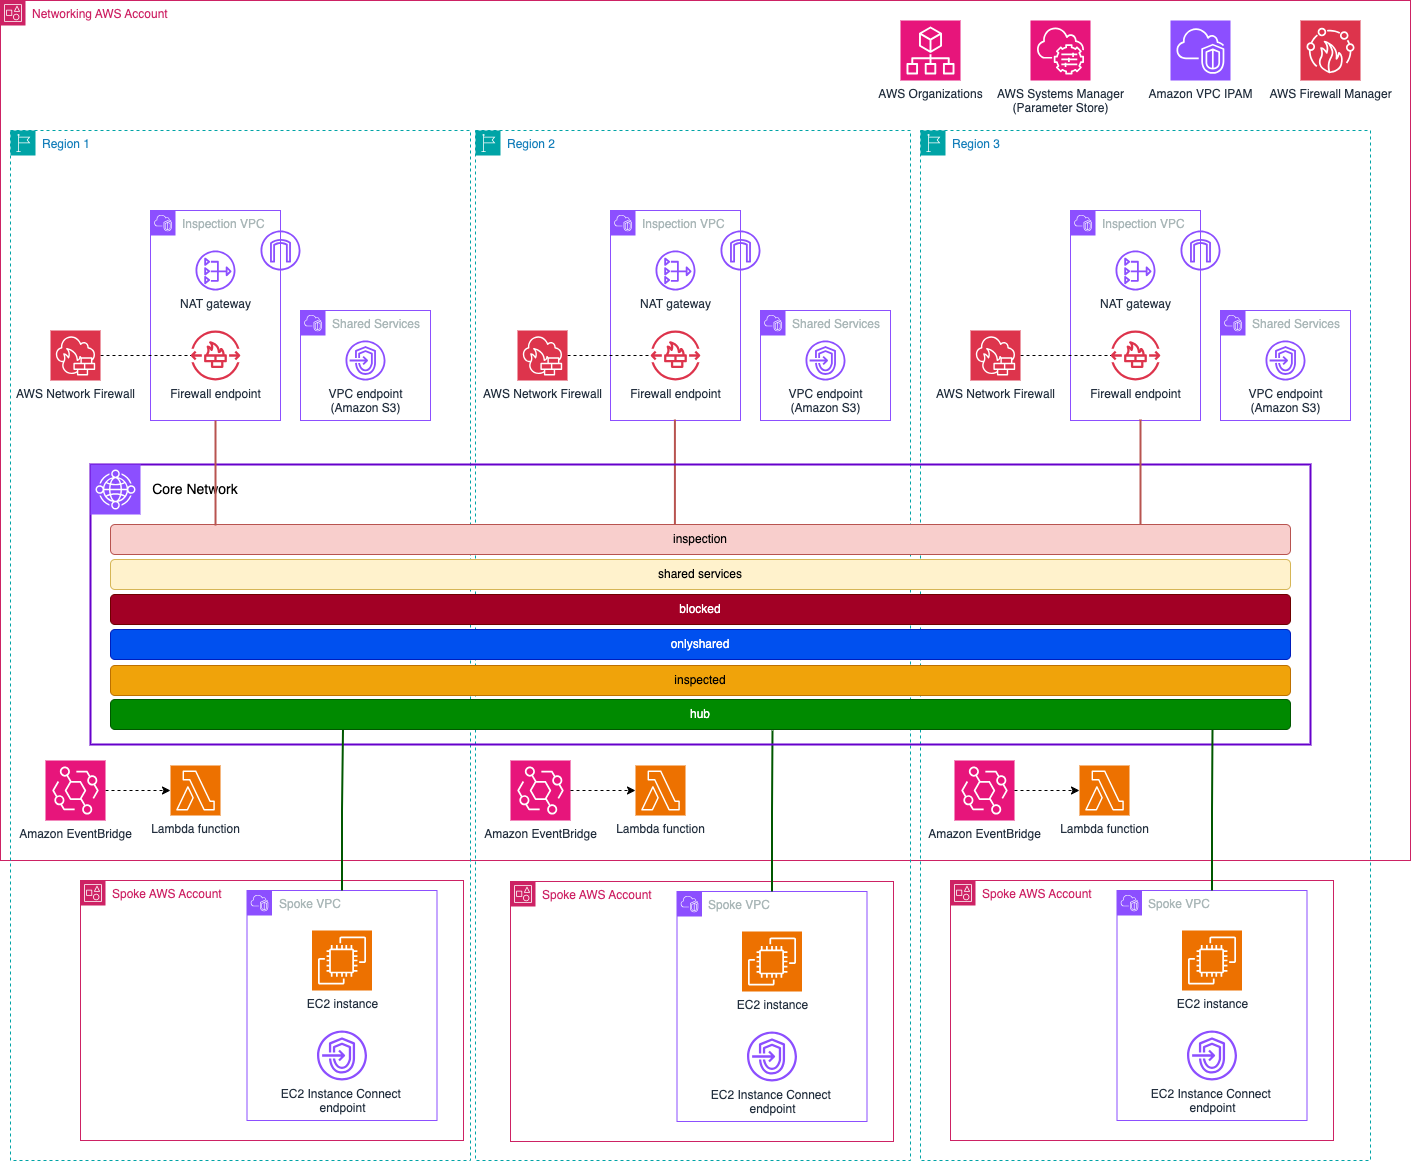
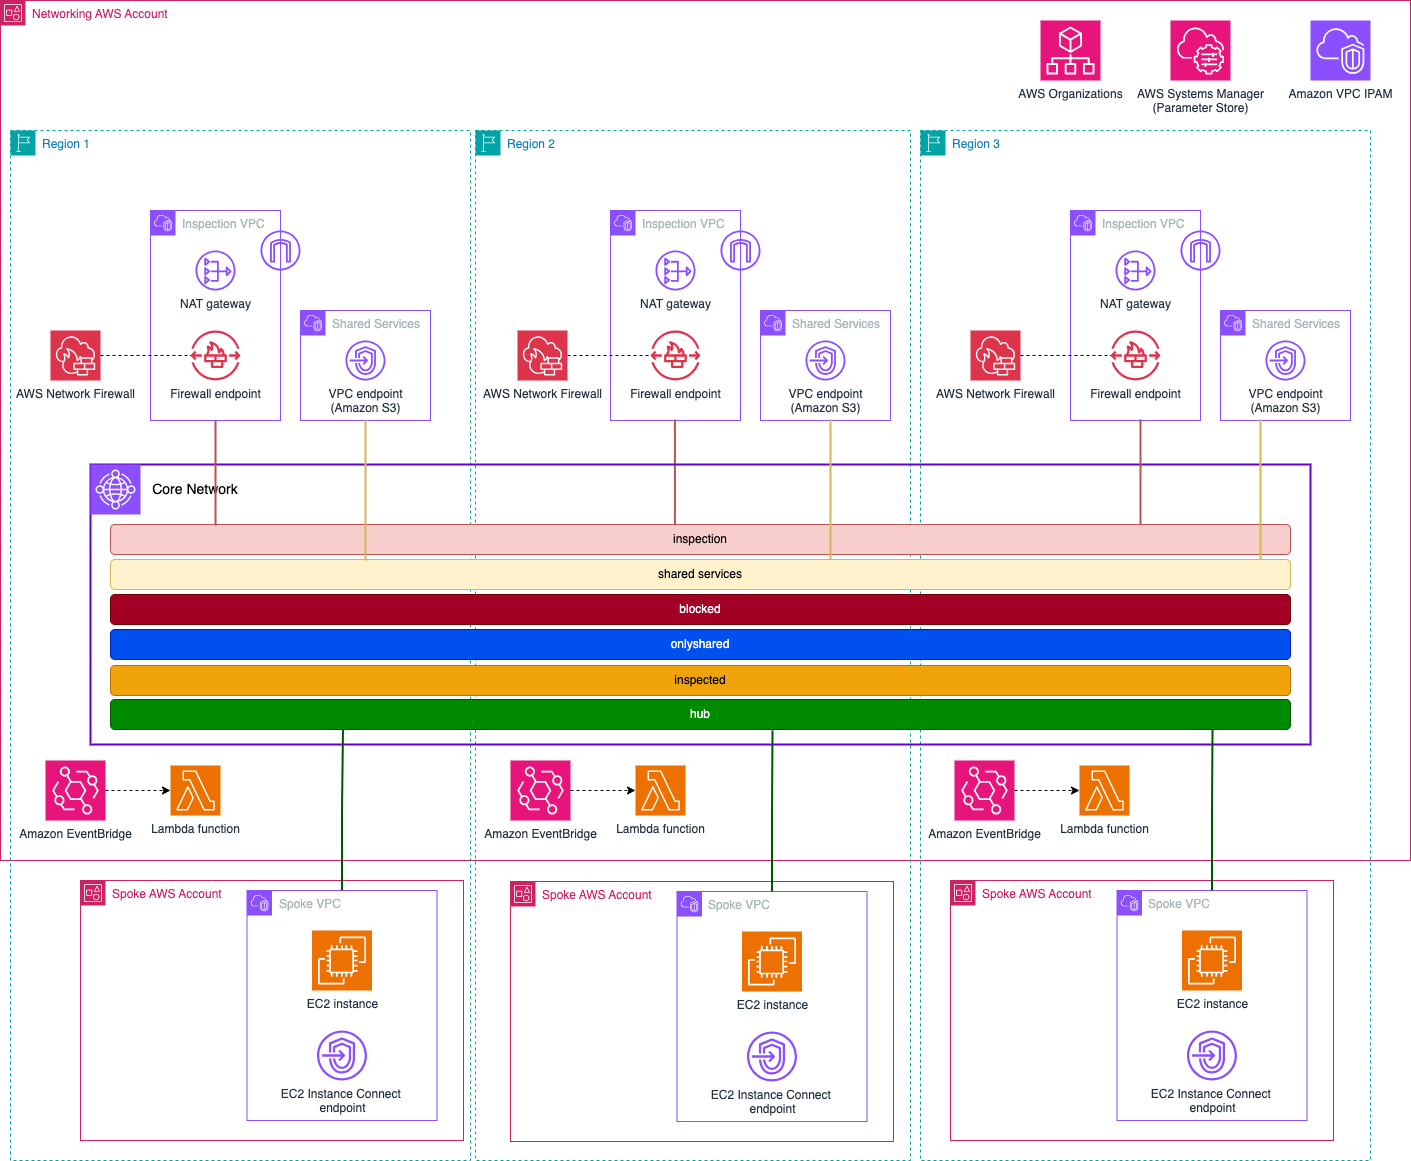
README update

Changed region(s): [[0.7172, 0.0, 0.9979, 0.093], [0.6237, 0.0, 0.686, 0.093]]

diff --git a/README.md b/README.md
@@ -1,11 +1,6 @@
 ## Build and enforce network security in multi-Account environments
 
-In this repository, you will leverage [Amazon GuardDuty](https://aws.amazon.com/guardduty/) and [AWS Firewall Manager](https://aws.amazon.com/es/firewall-manager/) to control the security posture of the AWS environment. In addition, from GuardDuty findings, you will automate actions in the global network built by [AWS Cloud WAN](https://aws.amazon.com/cloud-wan/). The Infrastructure-as-Code framework used is **Terraform**.
-
-The main idea is to build two different security controls:
-
-* *Reactive*: From GuardDuty findings, an automation will update Cloud WAN VPC attachment tags to move the VPC to a different security level (depending the finding severity).
-* *Proactive*: Firewall Manager will monitor the Security Groups in the multi-Account environment to determine which ones are not compliant.
+In this repository, you will leverage [Amazon GuardDuty](https://aws.amazon.com/guardduty/) findings to automate actions in global networks leveraging [AWS Cloud WAN](https://aws.amazon.com/cloud-wan/). The Infrastructure-as-Code framework used is **Terraform**. The main idea is to build an automation that updates Cloud WAN VPC attachment tags to move the VPC to a different security level depending the GuardDuty finding severity.
 
 ![Architecture diagram](./images/full-architecture.png)
 
@@ -21,7 +16,6 @@ This example requires the use of 2 AWS Accounts: one for the central Networking,
 * Automation:
     * [Amazon EventBridge](https://aws.amazon.com/eventbridge/) rule invoking a Lambda function from GuardDuty findings.
     * [AWS Lambda](https://aws.amazon.com/pm/lambda/) function changing VPC Cloud WAN attachment tags depending the GuardDuty finding obtained.
-* In each AWS Region, a Firewall Manager policy checks the Security Groups of the spoke VPCs to make sure they are compliant.
 * [Amazon VPC IPAM](https://docs.aws.amazon.com/vpc/latest/ipam/what-it-is-ipam.html) to provide CIDR blocks to the VPCs created in the spoke AWS Account.
 * In each AWS Region, two central VPCs are created:
     * Inspection & Egress VPC, with [AWS Network Firewall](https://aws.amazon.com/network-firewall/) as inspection layer.
@@ -39,7 +33,6 @@ This example requires the use of 2 AWS Accounts: one for the central Networking,
 ## Pre-requisites
 
 * When using several AWS Accounts, make sure you use different AWS credentials when initializing the provider in each folder.
-* [AWS Organizations](https://docs.aws.amazon.com/organizations/latest/userguide/orgs_introduction.html) and [AWS Config](https://docs.aws.amazon.com/config/latest/developerguide/WhatIsConfig.html) should be enabled in your AWS Account(s) to use Firewall Manager. Check the [documentation](https://docs.aws.amazon.com/waf/latest/developerguide/fms-prereq.html) to understand the prerequisites needed to enable Firewall Manager.
 * This repository does not configure Amazon GuardDuty. Check the [documentation](https://docs.aws.amazon.com/guardduty/latest/ug/guardduty_settingup.html) to understand how to enable it in your AWS Accounts (if not done already).
 * Terraform installed.
 

diff --git a/network/README.md b/network/README.md
@@ -43,7 +43,6 @@
 
 | Name | Type |
 |------|------|
-| [aws_fms_policy.nvirginia_policy](https://registry.terraform.io/providers/hashicorp/aws/latest/docs/resources/fms_policy) | resource |
 | [aws_iam_policy.automation_lambda_policy](https://registry.terraform.io/providers/hashicorp/aws/latest/docs/resources/iam_policy) | resource |
 | [aws_iam_role.automation_lambda_role](https://registry.terraform.io/providers/hashicorp/aws/latest/docs/resources/iam_role) | resource |
 | [aws_iam_role_policy_attachment.automation_lambda_policy_attachment](https://registry.terraform.io/providers/hashicorp/aws/latest/docs/resources/iam_role_policy_attachment) | resource |
@@ -69,7 +68,7 @@
 |------|-------------|------|---------|:--------:|
 | <a name="input_spoke_account_id"></a> [spoke\_account\_id](#input\_spoke\_account\_id) | Spoke AWS Account ID. | `string` | n/a | yes |
 | <a name="input_aws_regions"></a> [aws\_regions](#input\_aws\_regions) | AWS Regions to create the environment. | `map(string)` | <pre>{<br>  "ireland": "eu-west-1",<br>  "nvirginia": "us-east-1",<br>  "ohio": "us-east-2"<br>}</pre> | no |
-| <a name="input_guarduty_finding_names"></a> [guarduty\_finding\_names](#input\_guarduty\_finding\_names) | List of GuardDuty Finding names to filter in EventBridge. | `list(string)` | <pre>[<br>  "UnauthorizedAccess:EC2/MaliciousIPCaller.Custom",<br>  "CryptoCurrency:EC2/BitcoinTool.B!DNS",<br>  "Execution:Runtime/MaliciousFileExecuted",<br>  "UnauthorizedAccess:EC2/SSHBruteForce",<br>  "Execution:Runtime/SuspiciousCommand",<br>  "Recon:EC2/PortProbeUnprotectedPort",<br>  "Trojan:EC2/DNSDataExfiltration",<br>  "Backdoor:EC2/C&CActivity.B!DNS",<br>  "Execution:EC2/MaliciousFile"<br>]</pre> | no |
+| <a name="input_guarduty_finding_names"></a> [guarduty\_finding\_names](#input\_guarduty\_finding\_names) | List of GuardDuty Finding names to filter in EventBridge. | `list(string)` | <pre>[<br>  "UnauthorizedAccess:EC2/MaliciousIPCaller.Custom",<br>  "CryptoCurrency:EC2/BitcoinTool.B!DNS",<br>  "Execution:Runtime/SuspiciousTool"<br>]</pre> | no |
 | <a name="input_identifier"></a> [identifier](#input\_identifier) | Project Identifier, used as identifer when creating resources. | `string` | `"nis342"` | no |
 
 ## Outputs
